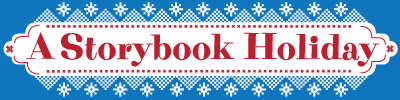
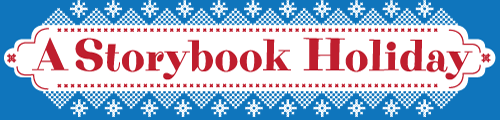
adding ticker

diff --git a/index.html b/index.html
@@ -79,11 +79,35 @@ e.async=true;var t=document.getElementsByTagName("script")[0];t.parentNode.inser
 <!-- pinterest - do not remove -->
 <script src="https://use.typekit.net/hxw5uje.js"></script>
 <script>try{Typekit.load({ async: false });}catch(e){}</script>
+<link rel="stylesheet" href="https://cdnjs.cloudflare.com/ajax/libs/flickity/2.0.5/flickity.min.css" integrity="sha256-RYxg7tiJnLgQq6MA97aPOy+QCt1360G5PsCmiXw87dA=" crossorigin="anonymous" />
+<script src="https://cdnjs.cloudflare.com/ajax/libs/flickity/2.0.5/flickity.pkgd.min.js" integrity="sha256-HAaPZfOf77+Qt1BGcxucDhuS/tJVxuZA+uX3tbcnSAk=" crossorigin="anonymous"></script>
 <style>
+/* carousel height, as percentage of width */
+/* inherit height from parent */
+* {
+	box-sizing: border-box;
+}
+.carousel-cell {
+	width: 100%;
+}
+.carousel-cell:before {
+	display: block;
+	text-align: center;
+}
+	.btn-default {background-color: #d91b5c;}
+	.btn-default:hover, .btn-default:focus {background-color: #ef519e;}
+.flickity-prev-next-button {
+	display: none;
+}
 h1.tk-peachy-keen-jf {
 	color: #fff;
-	font-size: 120px;
+	font-size: 80px;
 	text-shadow: 6px 6px 0px rgba(0, 0, 0, 1);
+}
+div.tk-peachy-keen-jf {
+	color: #EF492F;
+	font-size: 40px;
+	text-shadow: 2px 2px 0px rgba(0, 0, 0, 1);
 }
 .grinch-background {
 	background: #1b75bc url(guess-who.png) no-repeat center left/cover;
@@ -261,16 +285,54 @@ height="0" width="0" style="display:none;visibility:hidden"></iframe>
     <div id="global-alert" class="container-md" style="display:none;"></div>
   </div>
   <!-- InstanceBeginEditable name="Content" -->
-  <div class="row no-gutter no-padding padding-top-60 padding-bottom-30 grinch-background">
-    <div class="col-sm-8 col-sm-push-2 padding-bottom-60 text-center"><img class="center-block img-responsive" src="storybook-holiday.png" alt="Storybook Holiday">
-      <h1 class="tk-peachy-keen-jf no-margin-top">Guess Who!</h1>
+  <div class="row no-gutter no-padding padding-top-60 padding-bottom-20 grinch-background">
+    <div class="col-sm-8 col-sm-push-2 padding-bottom-60 text-center"><img class="center-block img-responsive" src="storybook-holiday.png?420" alt="Storybook Holiday">
+      <h1 class="tk-peachy-keen-jf no-margin-top opacity-7">Guess Who!</h1>
       <h4 class="white font-weight-400 padding-left-15 padding-right-15 roboto no-margin-top">Saturday, December 2, 2017, 6PM & 7:30PM</h4>
-      <div class="white font-weight-400 padding-left-15 padding-right-15 large-text margin-lg-100">Don't be a Grinch! Join the festivities at our inaugural holiday extravaganza, complete with a visit from Santa, live reindeer, gifts, crafts, entertainment, and a menu of delectable snacks and treats!</div>
-      <div class="margin-top-15"><a class="btn btn-primary" href="https://www.eventbrite.com/e/a-storybook-holiday-guess-who-tickets-38499576269?aff=storybookholiday" target="_blank">Buy Now</a></div>
+      <div class="carousel white" data-flickity='{ "wrapAround": true, "adaptiveHeight": true, "pageDots": false, "selectedAttraction": 0.15, "friction": 0.35, "autoPlay": 3000 }'>
+        <div class="carousel-cell">
+          <div style="color:#FEF200;" class="tk-peachy-keen-jf">A New Family Tradition</div>
+        </div>
+        <div class="carousel-cell">
+          <div style="color:#e52437;" class="tk-peachy-keen-jf">Roast Beast Bites</div>
+        </div>
+        <div class="carousel-cell">
+          <div style="color:#F37EB5;" class="tk-peachy-keen-jf">Live Entertainment</div>
+        </div>
+        <div class="carousel-cell">
+          <div style="color:#F67635;" class="tk-peachy-keen-jf">Visit With Santa</div>
+        </div>
+        <div class="carousel-cell">
+          <div style="color:#8CC63F;" class="tk-peachy-keen-jf">Whoville Chicken & Waffles</div>
+        </div>
+        <div class="carousel-cell">
+          <div style="color:#EF519E;" class="tk-peachy-keen-jf">Live Reindeer</div>
+        </div>
+        <div class="carousel-cell">
+          <div style="color:#F9CB0F;" class="tk-peachy-keen-jf">Naughty or Nice Hot Cocoa Bar</div>
+        </div>
+        <div class="carousel-cell">
+          <div style="color:#e52437;" class="tk-peachy-keen-jf">Grinch Cheese Sandwiches</div>
+        </div>
+        <div class="carousel-cell">
+          <div style="color:#FEF200;" class="tk-peachy-keen-jf">A Whimsical Family Event</div>
+        </div>
+        <div class="carousel-cell">
+          <div style="color:#F67635;" class="tk-peachy-keen-jf">Cindy's House</div>
+        </div>
+        <div class="carousel-cell">
+          <div style="color:#8CC63F;" class="tk-peachy-keen-jf">Who Hash Arancini</div>
+        </div>
+        <div class="carousel-cell">
+          <div style="color:#EF519E;" class="tk-peachy-keen-jf">Make & Take Gifts</div>
+        </div>
+      </div>
+      <h4 class="roboto white font-weight-400 padding-left-15 padding-right-15 margin-lg-200">Don't be a Grinch! Join the festivities at our inaugural holiday extravaganza, complete with a visit from Santa!</h4>
+      <div class="margin-top-15"><a class="btn btn-default btn-lg" href="https://www.eventbrite.com/e/a-storybook-holiday-guess-who-tickets-38499576269?aff=storybookholiday" target="_blank">Buy Now!</a></div>
     </div>
     <div class="col-sm-3 col-sm-push-1 hidden-sm hidden-xs"><img src="grinch.png" class="pull-right img-responsive" alt="Guess Who!"></div>
   </div>
-  <div style="background-color: #6c9931;" class="row featured padding-top-30 padding-bottom-40">
+  <div style="background-color: #7baa38;" class="row featured padding-top-30 padding-bottom-40">
     <div class="container">
       <div class="col-md-4 text-center padding-left-30 padding-right-30 padding-top-15 padding-bottom-15">
         <div class="icon-circle-default"><i class="fa fa-map-marker"></i></div>
